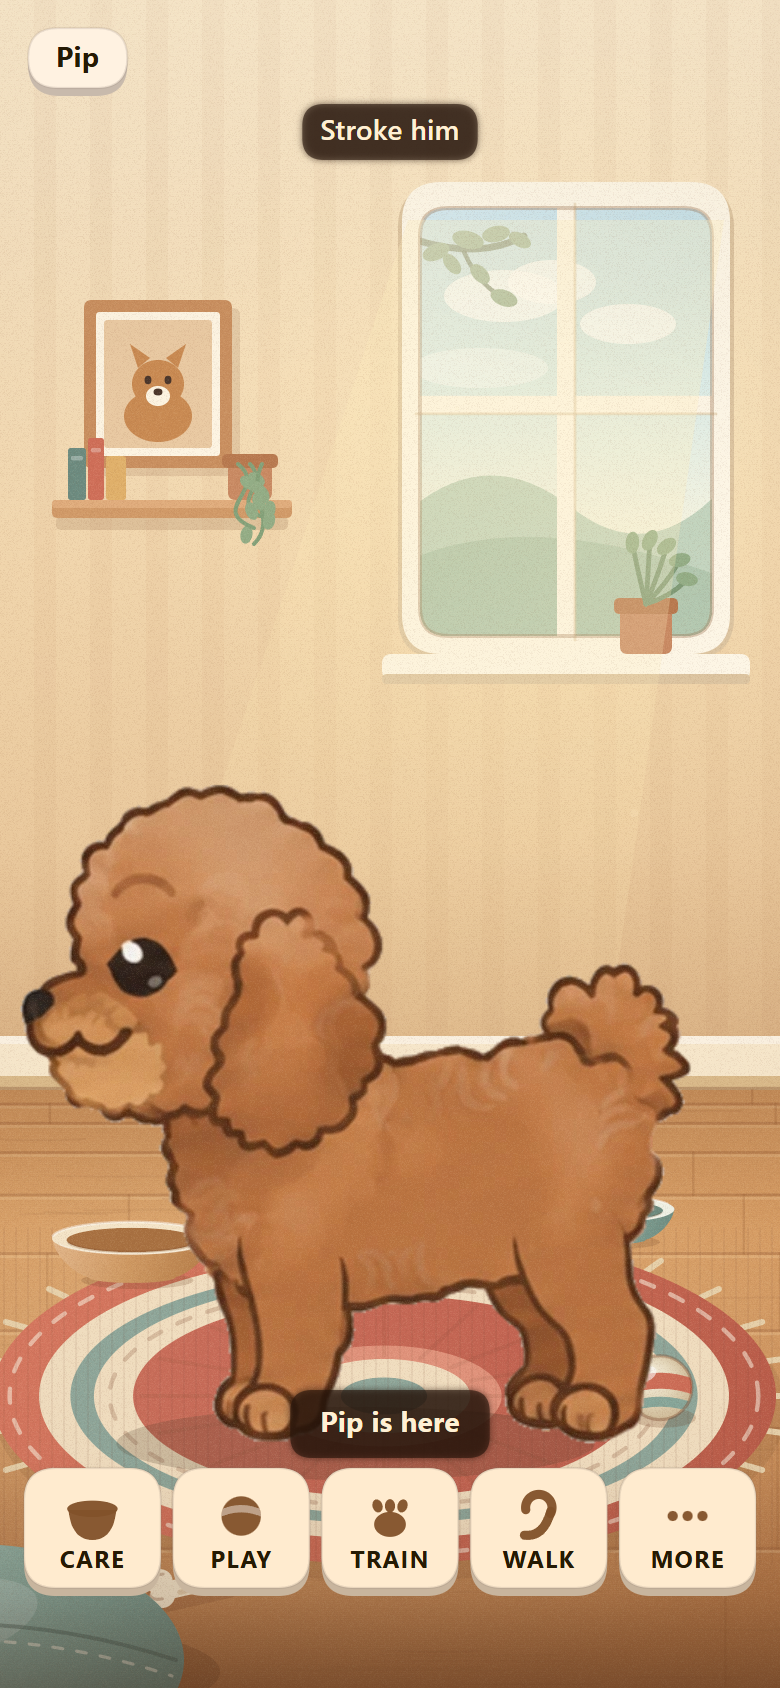
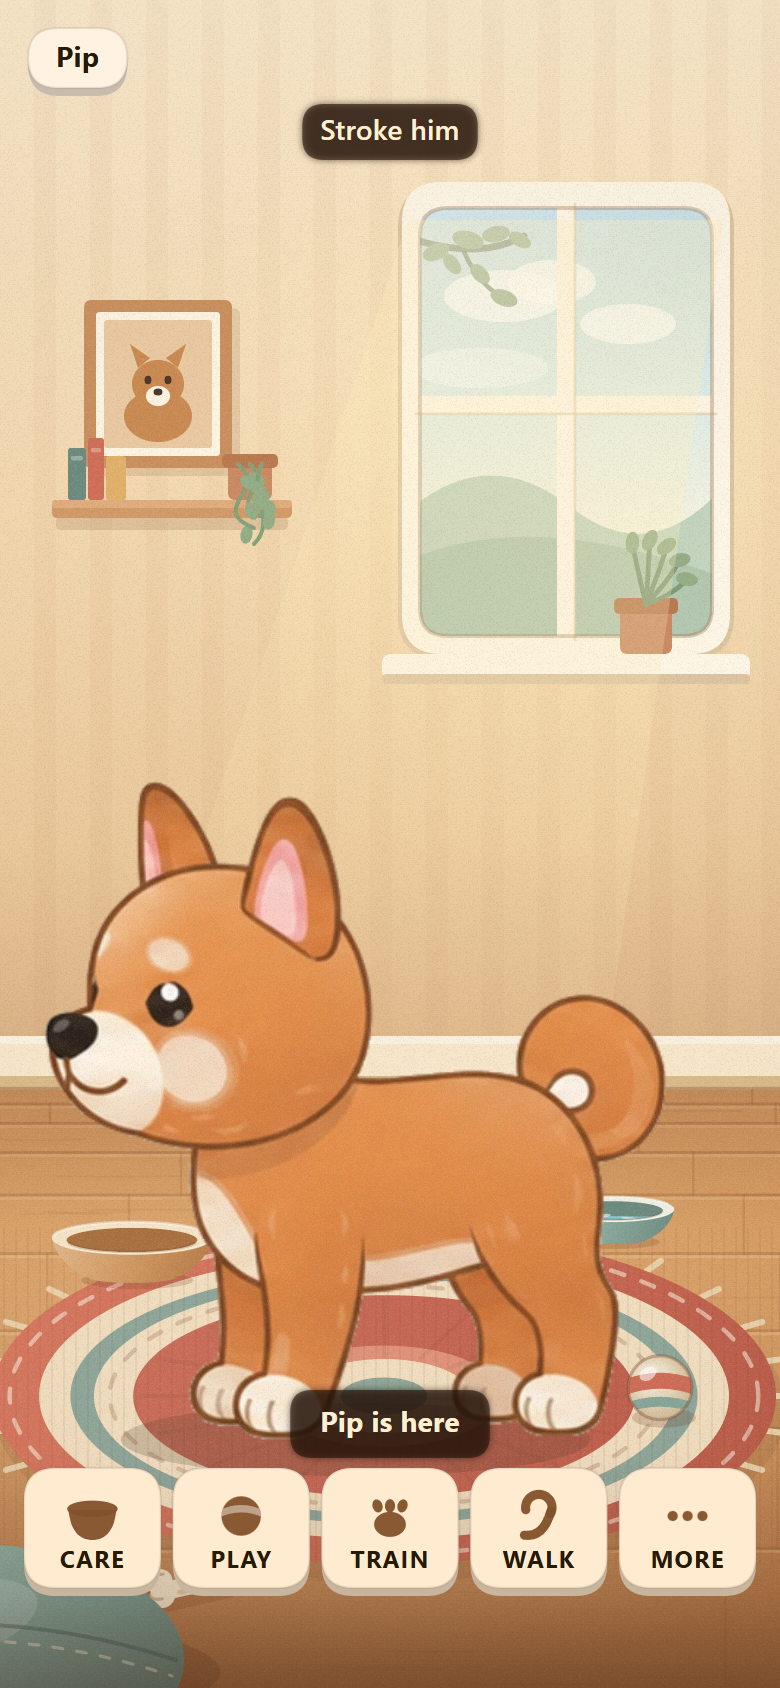
All three dogs walk out as his own art
"the side view is in my downloads folder"

side-shiba.webp completes the set: prick ears, a curled tail, cream points and a
smooth coat -- a genuinely different silhouette from the two doodles rather than a
recolour, which is why a per-breed sheet was worth asking for instead of a tint.

99KB. The slicer needed no changes: flood fill took its drop shadows, the rim-only
feather kept its catchlights white, and the four frames aligned on the ground line
on the first run.

THE GATE'S ASSERTION INVERTED, AND THAT IS THE POINT. walkgate said "a breed with
no sheet walks out as the DRAWN profile" and tested it on the Shiba, because the
Shiba was the one breed he had not drawn. He drew it. So the assertion is now the
invariant he actually stated -- "all dogs matter" -- every breed in the game has a
sheet, each of the three completes a departure as a sprite, and the drawn fallback
is asserted to be REACHABLE rather than exercised, since nothing in the game
exercises it any more. That path is not dead: a breed added later needs it.

Also added tools/portrait.html on the way, because there was no front view of the
shiba to draw from -- the dogs only exist as code and every render had the living
room behind it.

Cache 8.21.0, 68 entries. walkgate 18/18.

Changed region(s): [[0.0308, 0.4621, 0.8923, 0.8626]]

diff --git a/sw.js b/sw.js
@@ -109,6 +109,14 @@
    otherwise serve the narrow bowl for ever. Forward only, as always: 8.5.0
    went out, so this is 8.6.0 and never anything at or below it.
 
+   8.21.0: ALL THREE DOGS WALK OUT AS HIS OWN ART. `side-shiba.webp` completes
+   the set — prick ears, a curled tail and cream points, which is a genuinely
+   different silhouette from the two doodles rather than a recolour. The drawn
+   profile (`dog/side.js`) is no longer visible anywhere in the game: it stays as
+   the fallback for any breed added later without a sheet, which is a real path
+   and is asserted by `tools/walkgate.py` rather than assumed.
+   `py tools/check-precache.py` now expects 68 entries.
+
    8.20.0: THE PROFILE DOG IS THE HUMAN'S OWN ART. Four new entries and two of
    them are IMAGES, which is a first for this project: the dog has been drawn from
    springs since stage 1, and `src/assets/side-*.webp` are painted sheets. They
@@ -241,7 +249,7 @@
    cache. 8.7.0 is reserved for a sibling branch landing at the same time; this
    is 8.7.1 to avoid two different builds claiming one cache name. Forward only,
    as always. */
-const VERSION = '8.20.0';
+const VERSION = '8.21.0';
 const PREFIX = 'pp-cache-v';
 const CACHE = PREFIX + VERSION;
 
@@ -272,6 +280,7 @@ const PRECACHE = [
   './src/assets/side-meta.js',
   './src/assets/side-cockapoo.webp',
   './src/assets/side-schnoodle.webp',
+  './src/assets/side-shiba.webp',
   './src/dog/sidesprite.js',
   './src/dog/care.js',
   './src/dog/coat.js',

diff --git a/src/assets/side-meta.js b/src/assets/side-meta.js
@@ -22,6 +22,7 @@
 export const SIDE_SPRITES = {
   cockapoo: { file: 'side-cockapoo.webp', frames: 4, cellW: 548, cellH: 458, ground: 454, centre: 274 },
   schnoodle: { file: 'side-schnoodle.webp', frames: 4, cellW: 514, cellH: 458, ground: 454, centre: 257 },
+  shiba: { file: 'side-shiba.webp', frames: 4, cellW: 505, cellH: 458, ground: 454, centre: 252.5 },
 };
 
 export default SIDE_SPRITES;

diff --git a/tools/walkgate.py b/tools/walkgate.py
@@ -6,6 +6,10 @@ trots out of the room in profile instead of blinking out of it.
 
 WHAT IT ASSERTS, and every one of these is a bug that happened:
 
+  0  EVERY BREED HAS A SHEET. He drew all three ("all dogs matter"), so no breed
+     falls back to the drawn profile any more — and the fallback is asserted to be
+     reachable anyway, for a breed added later.
+
   A  HE IS THERE AT THE START. The first render of this beat was an EMPTY ROOM —
      the sprite sheet had not decoded, `sprite.draw` returned false, and nothing
      drew anything instead. The sheet now starts decoding when the lead comes out,
@@ -149,20 +153,47 @@ def main():
               [clock["durAtStart"], clock["durAtEnd"]])
         ctx.close()
 
-        # ---- the Shiba has no sheet and must still walk out ---------------
-        ctx, pg = fresh(breed="shiba")
-        shiba = pg.evaluate("""() => {
+        # ---- EVERY BREED WALKS OUT AS HIS OWN ART ------------------------
+        #
+        # This assertion used to be the opposite: "a breed with no sheet walks out
+        # as the DRAWN profile", tested on the Shiba, which was the one breed he
+        # had not drawn. He drew it, so the Shiba is no longer the no-sheet case
+        # and nothing in the game is. The invariant worth holding is the one he
+        # stated — "all dogs matter" — so it is asserted directly.
+        ctx, pg = fresh()
+        every = pg.evaluate("""async () => {
           const pp = window.__pp;
-          pp.setOff();
-          const d = pp.dbg().walk;
-          let g = 0, frames = 0;
-          while (g++ < 300 && pp.dbg().walk.leaving) { frames++; pp.step(1/60, 1); }
-          return { kind: d.sideKind, frames, away: pp.dbg().walk.away };
+          const mod = await import('/src/dog/sidesprite.js');
+          const ids = (pp.app && pp.app.breeds) || ['shiba', 'schnoodle', 'cockapoo'];
+          return {
+            ids,
+            missing: ids.filter((id) => !mod.hasSideSprite(id)),
+            /* AND THE FALLBACK IS STILL REACHABLE. With every breed covered, the
+               drawn path has no breed to exercise it — so the question becomes
+               whether it would still answer for a breed added later. */
+            unknownFallsBack: mod.hasSideSprite('nosuchbreed') === false,
+          };
         }""")
-        check(shiba["kind"] == "drawn",
-              "a breed with no sheet walks out as the DRAWN profile", shiba)
-        check(shiba["frames"] > 40 and shiba["away"],
-              "and its departure is the same length and still starts the absence", shiba)
+        check(not every["missing"],
+              "EVERY breed in the game has a sheet of his own art", every)
+        check(every["unknownFallsBack"],
+              "and a breed with no sheet would still fall back to the drawn profile",
+              every["unknownFallsBack"])
+
+        # each of them actually completes a departure
+        for breed in every["ids"]:
+            ctx2, pg2 = fresh(breed=breed)
+            one = pg2.evaluate("""() => {
+              const pp = window.__pp;
+              pp.setOff();
+              const kind = pp.dbg().walk.sideKind;
+              let g = 0, frames = 0;
+              while (g++ < 300 && pp.dbg().walk.leaving) { frames++; pp.step(1/60, 1); }
+              return { kind, frames, away: pp.dbg().walk.away };
+            }""")
+            check(one["kind"] == "sprite" and one["frames"] > 40 and one["away"],
+                  "%s walks out as the sprite and the absence begins" % breed, one)
+            ctx2.close()
         ctx.close()
 
         # ---- G: leaving the scene mid-departure ---------------------------

diff --git a/docs/ARCHITECTURE.md b/docs/ARCHITECTURE.md
@@ -4122,11 +4122,22 @@ body: 250).
 who is not drawn, that the walk's own clock is untouched by the departure, and that the Shiba walks
 out drawn.
 
-### 33.5 Left imperfect
+### 33.5 All three, and what the fallback is for now (8.21.0)
+
+He drew the Shiba too, so **every breed walks out as his own art** and the drawn profile is no longer
+visible anywhere in the game. Its silhouette is genuinely different rather than a recolour — prick
+ears, a curled tail, cream points, smooth coat — which is the whole reason a per-breed sheet was worth
+asking for instead of a tint.
+
+`dog/side.js` stays, and not out of sentiment: a breed added later has no sheet, and
+`hasSideSprite()` returning false is the path that keeps that dog walking. `tools/walkgate.py` asserts
+both halves — that no breed in the game is missing a sheet, and that an unknown breed would still fall
+back — because the second one now has nothing in the game to exercise it.
+
+### 33.6 Left imperfect
 
 - **The back view is still not built**, and it was deferred at the start. It is much cheaper now: the
-  parts are shared, so it is silhouettes and a tail — or two more sheets.
-- **The Shiba has no sheet.** It falls back to the drawn profile, which is visibly a different hand.
+  parts are shared, so it is silhouettes and a tail — or three more sheets.
 - **He only ever walks out.** The return, the disc, the ring and the room are all still frontal. The
   profile dog exists for two seconds per walk.
 - **`dog/side.js` is now a fallback rather than the plan.** Seven batches of extraction stand on their
